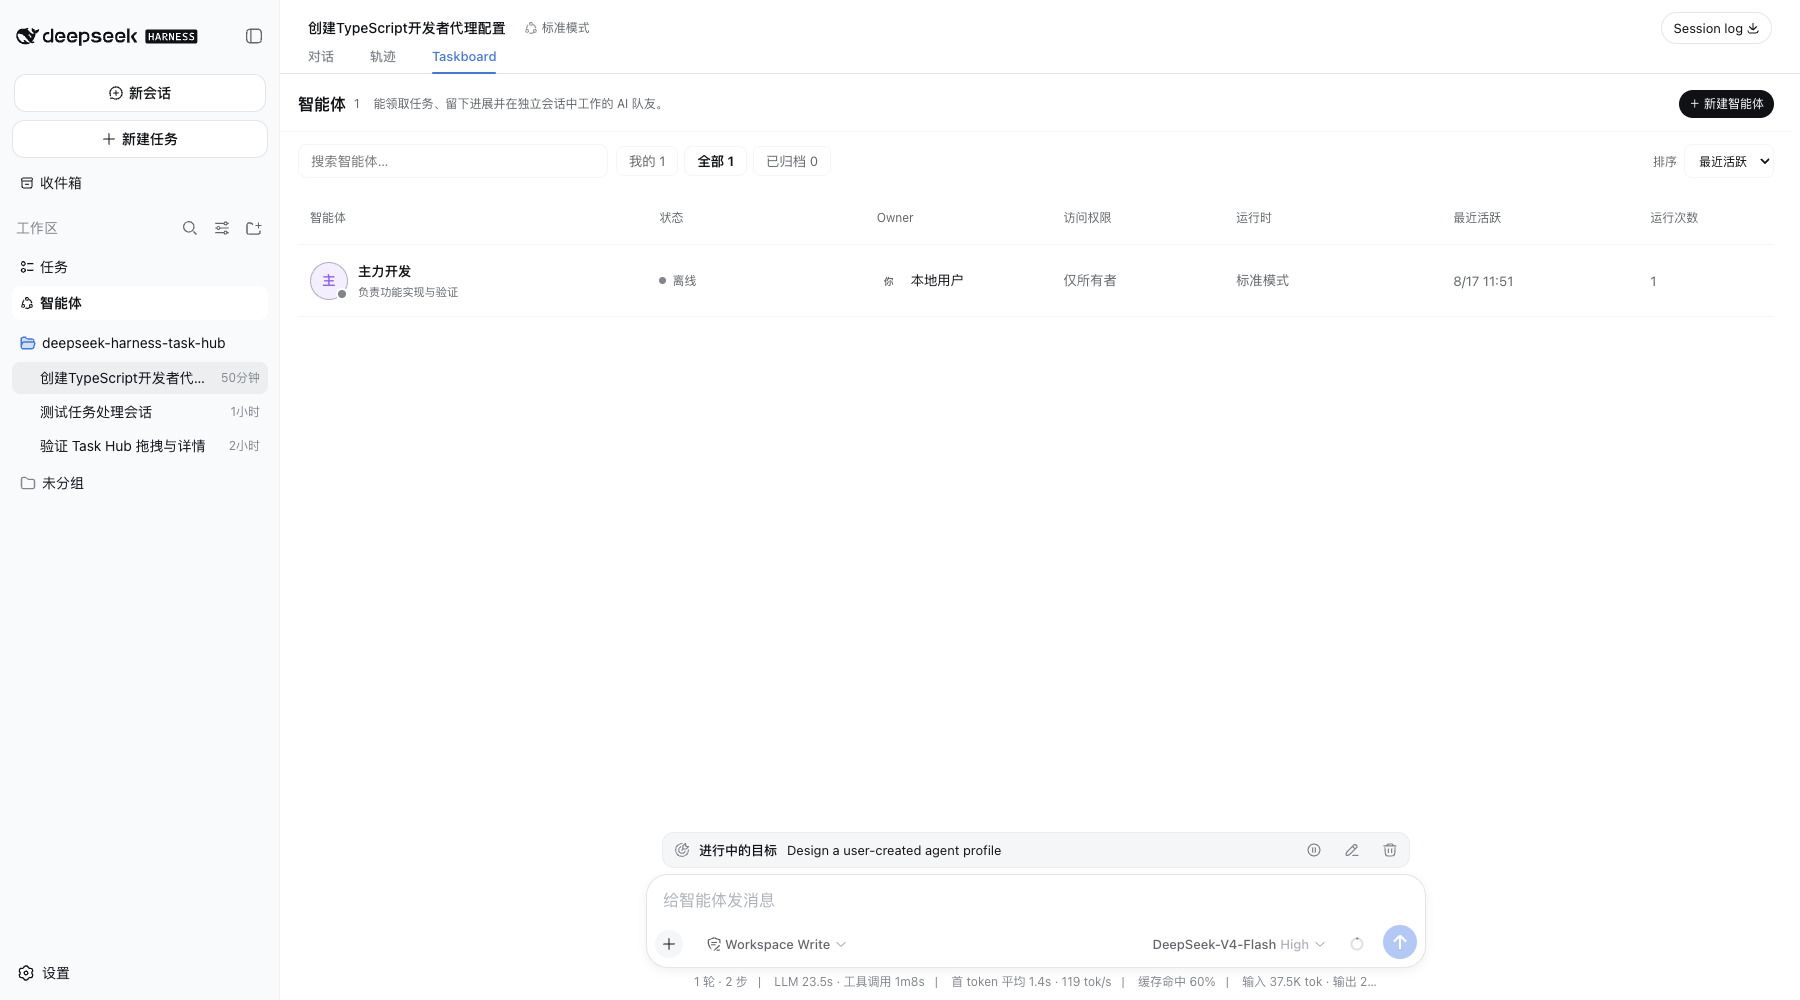
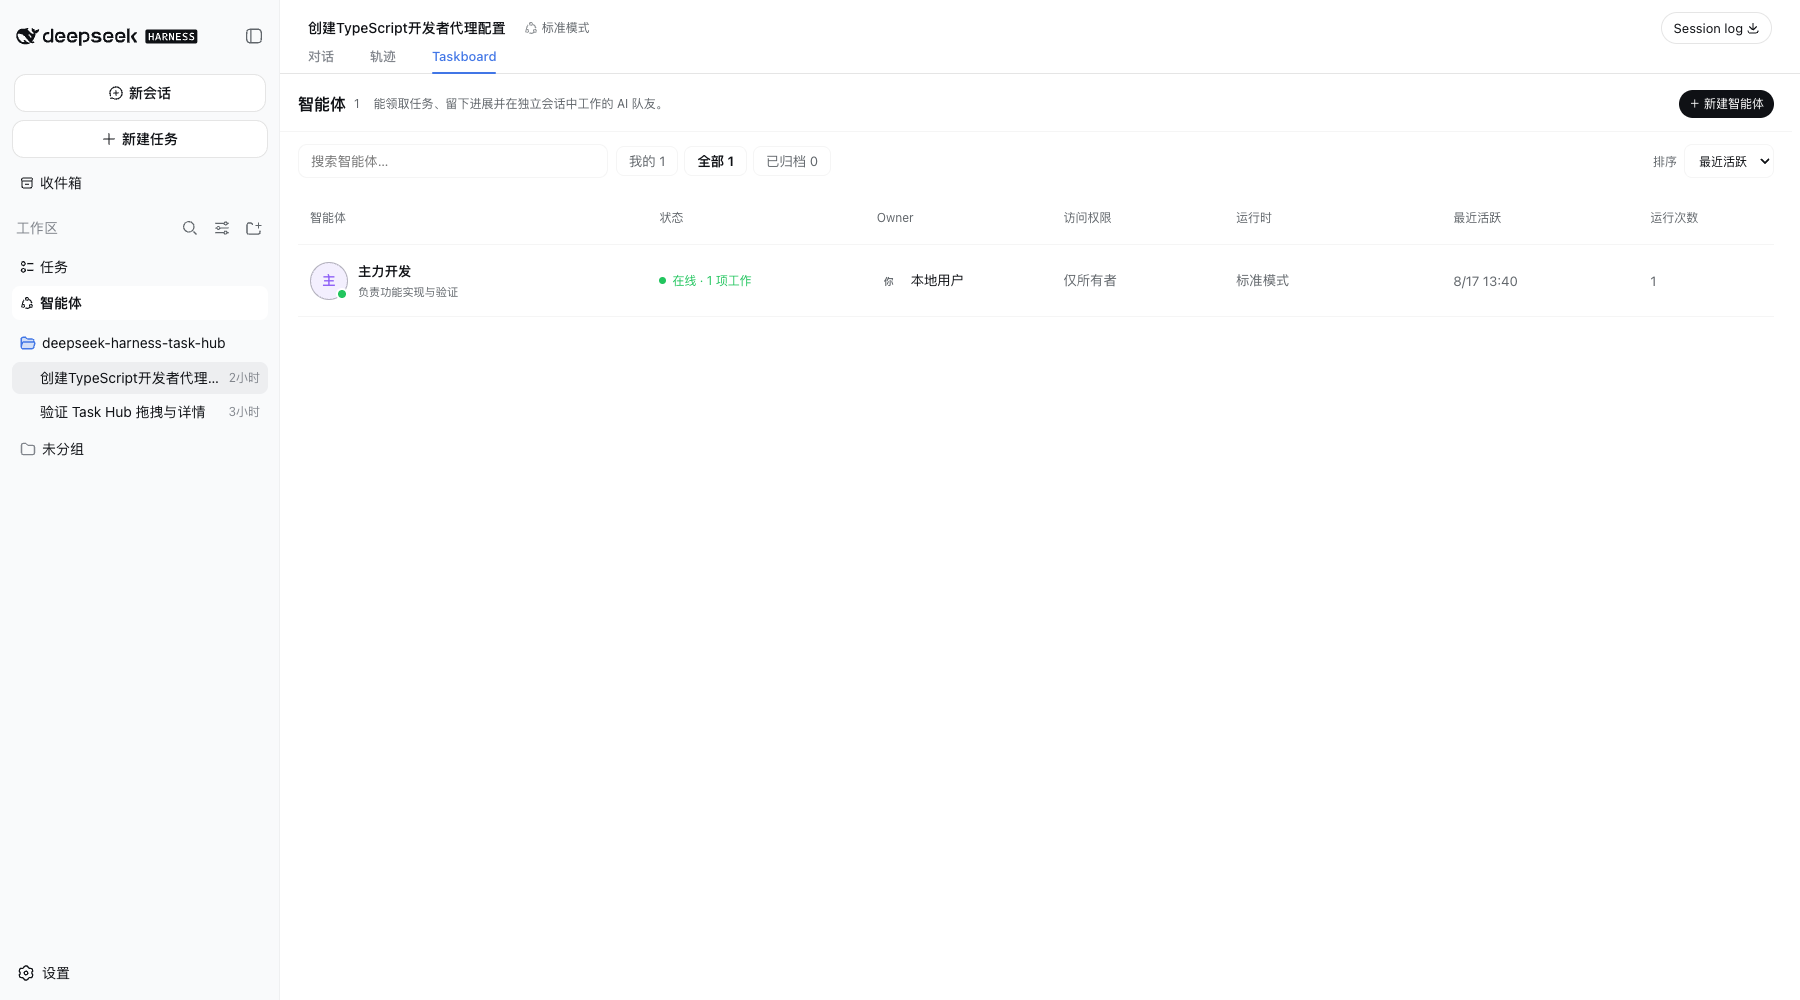
fix(tasks): open details and hide chat composer

diff --git a/src/client/board.tsx b/src/client/board.tsx
@@ -259,7 +259,6 @@ function Card({
         startX: number
         startY: number
         active: boolean
-        openOnRelease: boolean
       }
     | undefined
   >(undefined)
@@ -357,7 +356,6 @@ function Card({
           startX: event.clientX,
           startY: event.clientY,
           active: false,
-          openOnRelease: target.closest('.tb-card-title') !== null,
         }
         event.currentTarget.setPointerCapture(event.pointerId)
       }}
@@ -383,7 +381,7 @@ function Card({
         pointerDragRef.current = undefined
         event.currentTarget.releasePointerCapture(event.pointerId)
         if (!gesture.active) {
-          if (gesture.openOnRelease) onToggle()
+          onToggle()
           return
         }
         const target = document.elementFromPoint(event.clientX, event.clientY)
@@ -811,36 +809,44 @@ function Card({
           )}
 
           {/* Execution history, newest first — the attempt trail the board keeps. */}
-          {task.executions.length > 0 && (
-            <ol className="tb-executions">
-              {[...task.executions].reverse().map(execution => (
-                <li key={execution.id} data-result={execution.result}>
-                  <span className="tb-exec-badge" data-result={execution.result}>
-                    {resultLabel(execution.result)}
-                  </span>
-                  <span className="tb-exec-times">
-                    {formatTime(execution.startedAt)}
-                    {execution.endedAt !== undefined && ` → ${formatTime(execution.endedAt)}`}
-                  </span>
-                  {execution.sessionId !== undefined && (
-                    <button
-                      type="button"
-                      className="tb-link"
-                      onClick={() => {
-                        openSession(execution.sessionId!)
-                      }}
-                      title={execution.sessionId}
-                    >
-                      session ⌁
-                    </button>
-                  )}
-                  {execution.error !== undefined && execution.error !== '' && (
-                    <span className="tb-exec-error">{execution.error}</span>
-                  )}
-                </li>
-              ))}
-            </ol>
-          )}
+          <section className="tb-execution-panel" aria-label="任务执行情况">
+            <div className="tb-execution-head">
+              <strong>执行情况</strong>
+              <span>{task.executions.length} 次运行</span>
+            </div>
+            {task.executions.length > 0 ? (
+              <ol className="tb-executions">
+                {[...task.executions].reverse().map(execution => (
+                  <li key={execution.id} data-result={execution.result}>
+                    <span className="tb-exec-badge" data-result={execution.result}>
+                      {resultLabel(execution.result)}
+                    </span>
+                    <span className="tb-exec-times">
+                      {formatTime(execution.startedAt)}
+                      {execution.endedAt !== undefined && ` → ${formatTime(execution.endedAt)}`}
+                    </span>
+                    {execution.sessionId !== undefined && (
+                      <button
+                        type="button"
+                        className="tb-link"
+                        onClick={() => {
+                          openSession(execution.sessionId!)
+                        }}
+                        title={execution.sessionId}
+                      >
+                        session ⌁
+                      </button>
+                    )}
+                    {execution.error !== undefined && execution.error !== '' && (
+                      <span className="tb-exec-error">{execution.error}</span>
+                    )}
+                  </li>
+                ))}
+              </ol>
+            ) : (
+              <p className="tb-execution-empty">这个任务尚未执行。</p>
+            )}
+          </section>
 
           {/* Session mail: messages this issue's agent exchanged with another
               issue-session's agent. dsh has no native peer messaging, so the

diff --git a/src/client/styles.ts b/src/client/styles.ts
@@ -13,9 +13,10 @@
 
 /** Stylesheet text, injected once per page by {@link installStyles}. */
 const CSS = `
-/* The composer floats over the bottom of the session body (the chat view lives
-   with the same thing), so the board reserves room for it rather than letting
-   its last cards sit under it. */
+/* Task Hub is a workspace surface, not a chat surface. It fills the active
+   conversation view and suppresses the sibling composer only while mounted. */
+.tb-task-hub-workspace { box-sizing: border-box; height: 100%; min-height: 0; }
+[data-conversation-scroll]:has(.tb-task-hub-workspace) > [data-composer-seat] { display: none; }
 .tb-root {
   box-sizing: border-box; display: flex; flex-direction: column;
   height: 100%; min-height: 0; overflow: hidden; color: var(--dsw-alias-label-primary);
@@ -86,7 +87,7 @@ const CSS = `
 
 .tb-columns {
   flex: 1; min-height: 0; display: flex; gap: 12px; align-items: stretch;
-  overflow: auto; padding: 0 18px 220px;
+  overflow: auto; padding: 0 18px 18px;
 }
 .tb-column {
   flex: 0 0 280px; min-height: 420px; display: flex; flex-direction: column;
@@ -214,6 +215,11 @@ const CSS = `
 /* Execution history and schedule editor inside the expanded card. */
 .tb-executions { margin: 0; padding-left: 0; list-style: none; display: flex; flex-direction: column; gap: 6px; }
 .tb-executions li { display: flex; align-items: center; gap: 8px; flex-wrap: wrap; }
+.tb-execution-panel { display: flex; flex-direction: column; gap: 10px; padding: 14px; border: 1px solid var(--dsw-alias-border-l1); border-radius: 10px; background: var(--dsw-alias-bg-layer-1); }
+.tb-execution-head { display: flex; align-items: center; justify-content: space-between; gap: 12px; }
+.tb-execution-head strong { font-size: 13px; }
+.tb-execution-head span, .tb-execution-empty { color: var(--dsw-alias-label-secondary); font-size: 12px; }
+.tb-execution-empty { margin: 0; }
 .tb-exec-badge {
   font-size: 10px; font-weight: 500; padding: 1px 6px; border-radius: 999px;
   color: var(--dsw-alias-label-secondary); border: 1px solid var(--dsw-alias-border-l1);
@@ -711,7 +717,6 @@ button.tb-agent-row:hover { background: var(--dsw-alias-interactive-bg-hover); }
   .tb-board-toolbar { align-items: flex-start; }
   .tb-board-projects { order: 3; width: 100%; }
   .tb-search { margin-left: auto; }
-  .tb-columns { padding-bottom: 180px; }
   .tb-agent-row { grid-template-columns: minmax(180px, 2fr) 1fr .8fr; }
   .tb-agent-row > :nth-child(3), .tb-agent-row > :nth-child(4), .tb-agent-row > :nth-child(5), .tb-agent-row > :nth-child(6) { display: none; }
   .tb-agent-overview, .tb-task-document { grid-template-columns: 1fr; }

diff --git a/src/client/workspace.tsx b/src/client/workspace.tsx
@@ -13,7 +13,15 @@ export function TaskHubWorkspace(
   },
 ) {
   const navigation = useTaskHubNavigation()
-  if (navigation.view === 'inbox') return <InboxView {...props} />
-  if (navigation.view === 'agents') return <AgentsView {...props} />
-  return <BoardView {...props} />
+  return (
+    <div className="tb-task-hub-workspace">
+      {navigation.view === 'inbox' ? (
+        <InboxView {...props} />
+      ) : navigation.view === 'agents' ? (
+        <AgentsView {...props} />
+      ) : (
+        <BoardView {...props} />
+      )}
+    </div>
+  )
 }

diff --git a/test/client-styles.test.js b/test/client-styles.test.js
@@ -1,0 +1,12 @@
+import assert from 'node:assert/strict'
+import { readFile } from 'node:fs/promises'
+import { resolve } from 'node:path'
+import test from 'node:test'
+
+test('the Task Hub workspace suppresses the conversation composer seat', async () => {
+  const client = await readFile(resolve(import.meta.dirname, '../lib/client.js'), 'utf8')
+  assert.match(
+    client,
+    /\[data-conversation-scroll\]:has\(\.tb-task-hub-workspace\)\s*>\s*\[data-composer-seat\]\s*\{[^}]*display:\s*none/u,
+  )
+})

diff --git a/README.md b/README.md
@@ -56,6 +56,10 @@ These screenshots were captured from the plugin running in a local DeepSeek Harn
 
 ![Real DeepSeek Harness task board with project filters, scheduler controls, and status columns](docs/assets/task-board.png)
 
+**Task detail**: clicking anywhere on a task card opens its full document with the description, assignment, execution history, bound session, schedule, activity trail, and editable properties:
+
+![Real task detail with execution status and property inspector inside DeepSeek Harness](docs/assets/task-detail.png)
+
 **Create task**: the wide manual composer uses Harness theme tokens and keeps status, priority, agent assignment, and project context visible without leaving the board. Switching modes opens the real agent-assisted task flow:
 
 ![Real task creation dialog inside DeepSeek Harness](docs/assets/task-create.png)

diff --git a/README-zh.md b/README-zh.md
@@ -56,6 +56,10 @@
 
 ![DeepSeek Harness 中真实运行的任务看板，包含项目筛选、调度器和状态列](docs/assets/task-board.png)
 
+**任务详情**：点击任务卡片任意非操作区域即可打开完整任务文档，查看描述、智能体分配、执行历史、关联会话、调度规则、活动流水和可编辑属性：
+
+![DeepSeek Harness 中真实运行的任务详情，包含执行情况和属性栏](docs/assets/task-detail.png)
+
 **创建任务**：宽版手动编辑器使用 Harness 主题 token，并在看板内统一展示状态、优先级、智能体分配和项目上下文；切换模式后会进入真实智能体辅助创建流程：
 
 ![DeepSeek Harness 中真实运行的创建任务弹窗](docs/assets/task-create.png)
